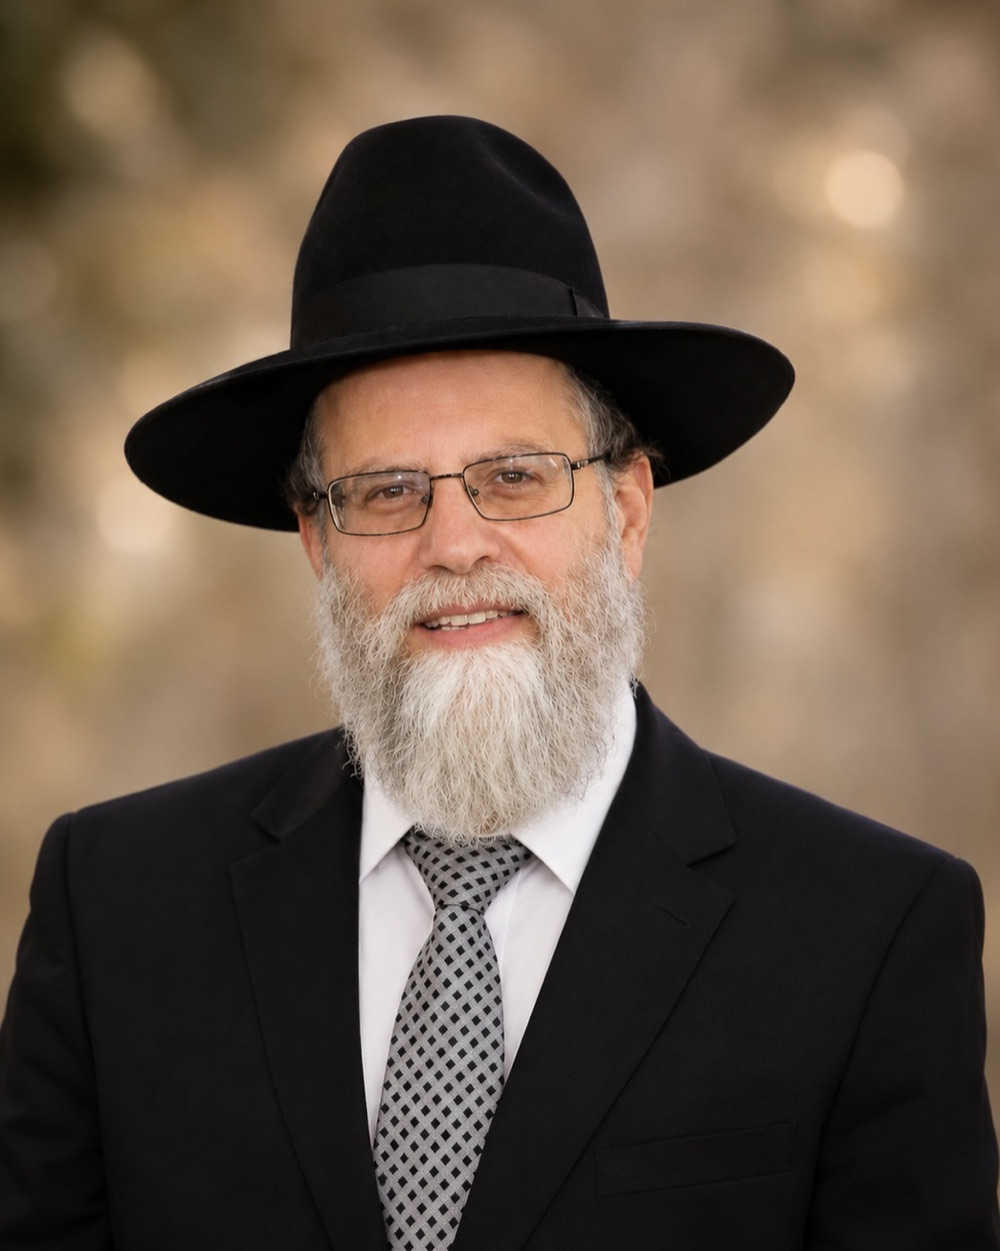
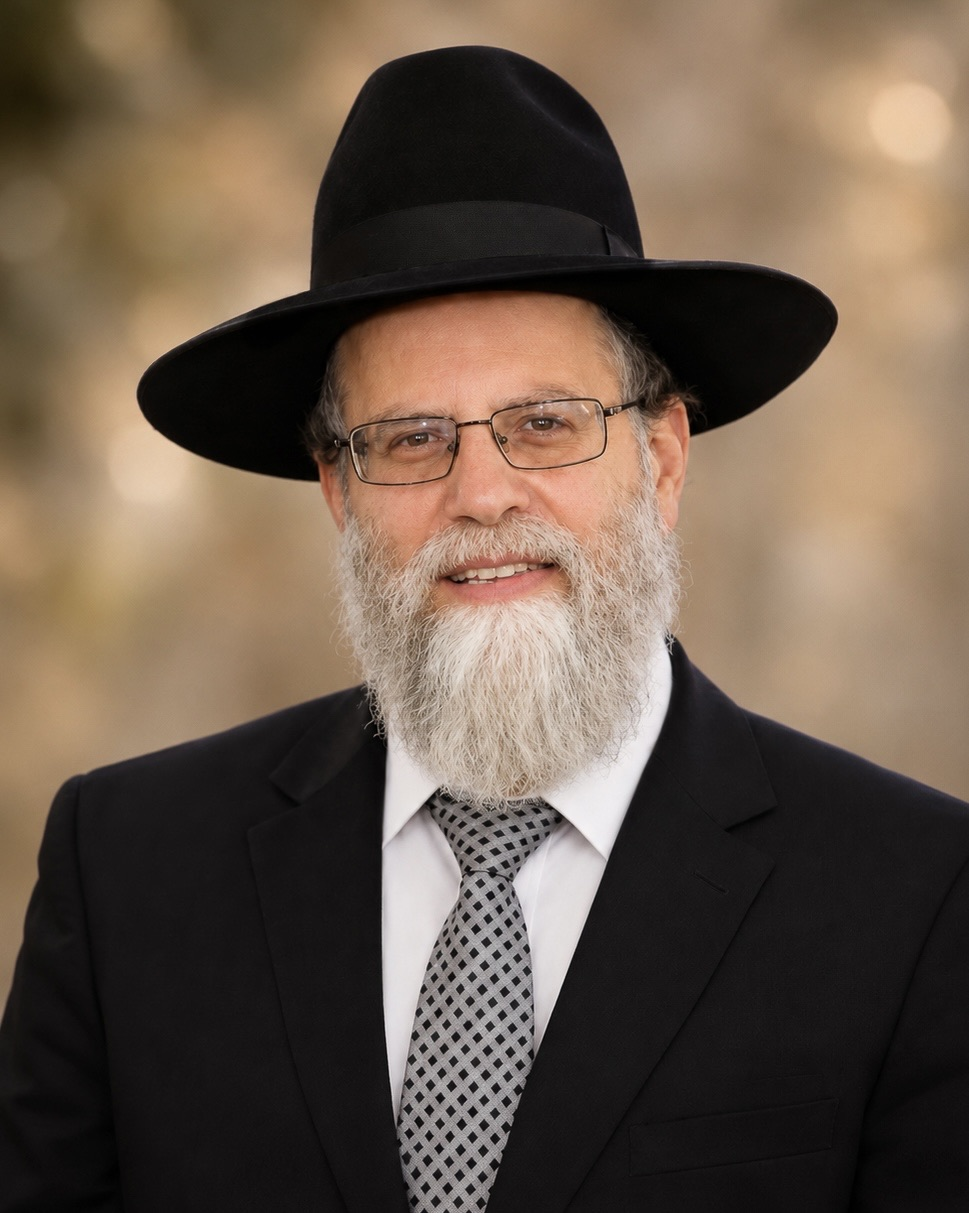
Closer photo of Rabbi Brezak

diff --git a/index.html b/index.html
@@ -717,7 +717,7 @@
 <!-- 6. AUTHORITY: who is behind it -->
 <section id="rabbi">
   <div class="wrap rabbi-grid">
-    <div class="rabbi-photo"><img src="assets/rabbi-brezak.jpg?v=3" alt="Rabbi Dov Brezak"></div>
+    <div class="rabbi-photo"><img src="assets/rabbi-brezak.jpg?v=4" alt="Rabbi Dov Brezak"></div>
     <div class="rabbi-text">
       <h2>Rabbi <em>Dov Brezak</em></h2>
       <ul class="rabbi-facts">
